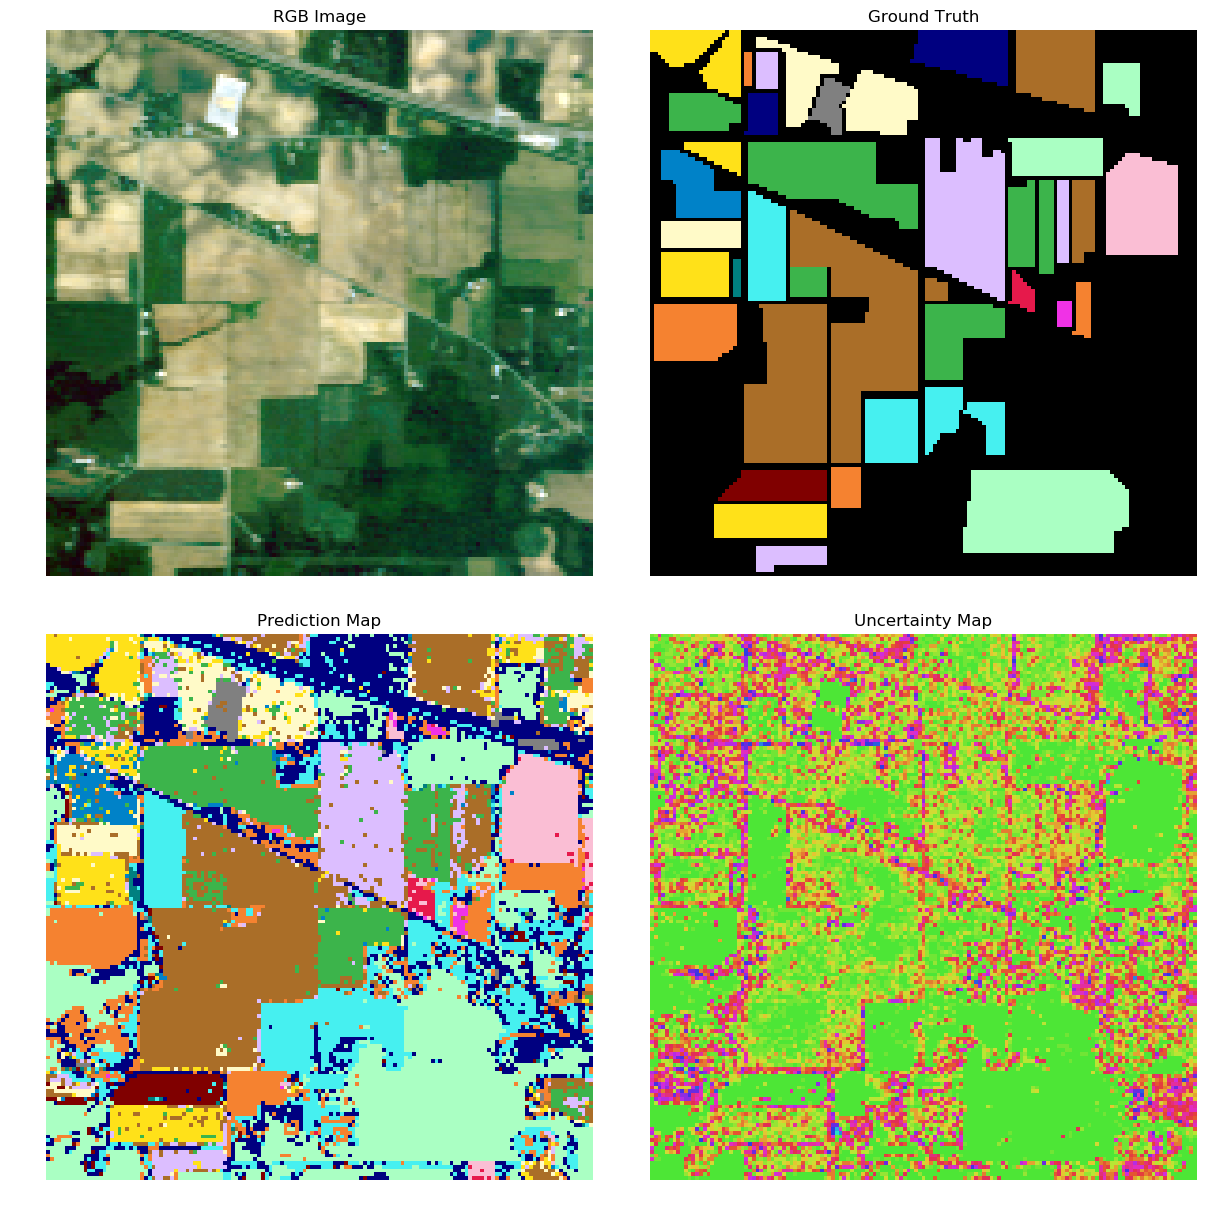
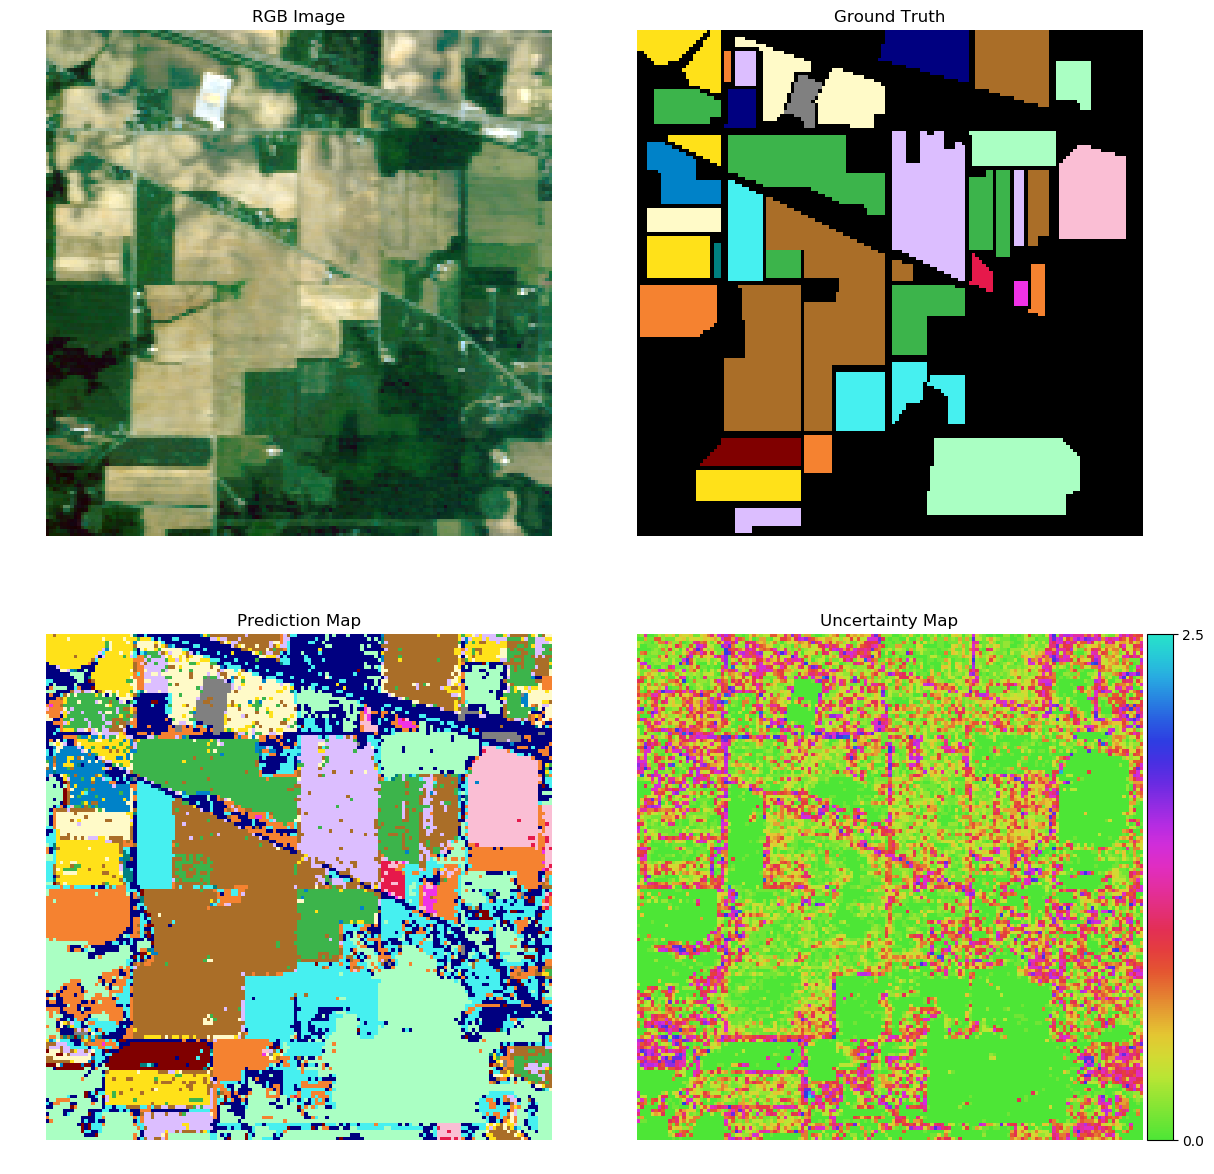
Mapas 0.025 con barra de uncertainty de leyenda

diff --git a/FPGA_accelerator_for_GBDT/high_performance_processor_python_code_and_data/generate_maps.py b/FPGA_accelerator_for_GBDT/high_performance_processor_python_code_and_data/generate_maps.py
@@ -4,7 +4,8 @@ from __future__ import division
 from inference_reduced import *
 from perform_analysis import *
 from HSI2RGB import HSI2RGB
-
+from matplotlib.colors import LinearSegmentedColormap
+from mpl_toolkits.axes_grid1 import make_axes_locatable
 MAPS_DIR = "maps"
 
 # MAP FUNCTIONS
@@ -189,12 +190,15 @@ def plot_maps(output_dir, name, shape, num_classes, wl, img, y, pred_map,
     if name=="indian_pines_corrected":
         fig, ((ax1, ax2), (ax3, ax4)) = plt.subplots(2, 2)
         fig.set_size_inches(8*shape[1]/96, 8*shape[0]/96)
+        plt.subplots_adjust(wspace=0.2, hspace=0.2)
     elif name=="KSC":
         fig, ((ax1, ax2), (ax3, ax4)) = plt.subplots(2, 2)
         fig.set_size_inches(2*shape[1]/96, 2*shape[0]/96)
+        plt.subplots_adjust(wspace=0.2, hspace=0.2)
     else:
         fig, (ax1, ax2, ax3, ax4) = plt.subplots(1, 4)
         fig.set_size_inches(4*shape[1]/96, shape[0]/96)
+        plt.subplots_adjust(wspace=0.2)
     
     # Remove axis
     ax1.set_axis_off()
@@ -259,6 +263,35 @@ def plot_maps(output_dir, name, shape, num_classes, wl, img, y, pred_map,
     H_img = _map_to_img(u_map, shape, gradient_colours)
     ax4.imshow(H_img)
     ax4.set_title("Uncertainty Map")
+
+    # Create the custom colormap
+    gradient_colours = [(r/255, g/255, b/255) for r, g, b in gradient_colours]
+    cmap = LinearSegmentedColormap.from_list('custom_cmap', gradient_colours, N=256)
+
+    # Create the colorbar outside
+    divider = make_axes_locatable(ax1)
+    cax = divider.append_axes("right", size="5%", pad=0.05)
+    cax.axis('off')  # Make the colorbar invisible
+    divider = make_axes_locatable(ax2)
+    cax = divider.append_axes("right", size="5%", pad=0.05)
+    cax.axis('off')  # Make the colorbar invisible
+    divider = make_axes_locatable(ax3)
+    cax = divider.append_axes("right", size="5%", pad=0.05)
+    cax.axis('off')  # Make the colorbar invisible
+    divider = make_axes_locatable(ax4)
+    cax = divider.append_axes("right", size="5%", pad=0.05)
+
+    # Create a ScalarMappable object to add the colorbar
+    norm = plt.Normalize(0.0, max_H)  # Normaliza el rango de valores de la barra de colores
+    sm = plt.cm.ScalarMappable(cmap=cmap, norm=norm)
+    sm.set_array([]) 
+
+    # Add the colorbar to the plot
+    cbar = plt.colorbar(sm, cax=cax)
+
+    # Configure the colorbar
+    cbar.set_ticks([0.0, max_H])  # Add ticks
+    cbar.set_ticklabels(['0.0', '{:.1f}'.format(max_H)])  # Add labels
     
     # PLOT COMBINED IMAGE
     # -------------------------------------------------------------------------
